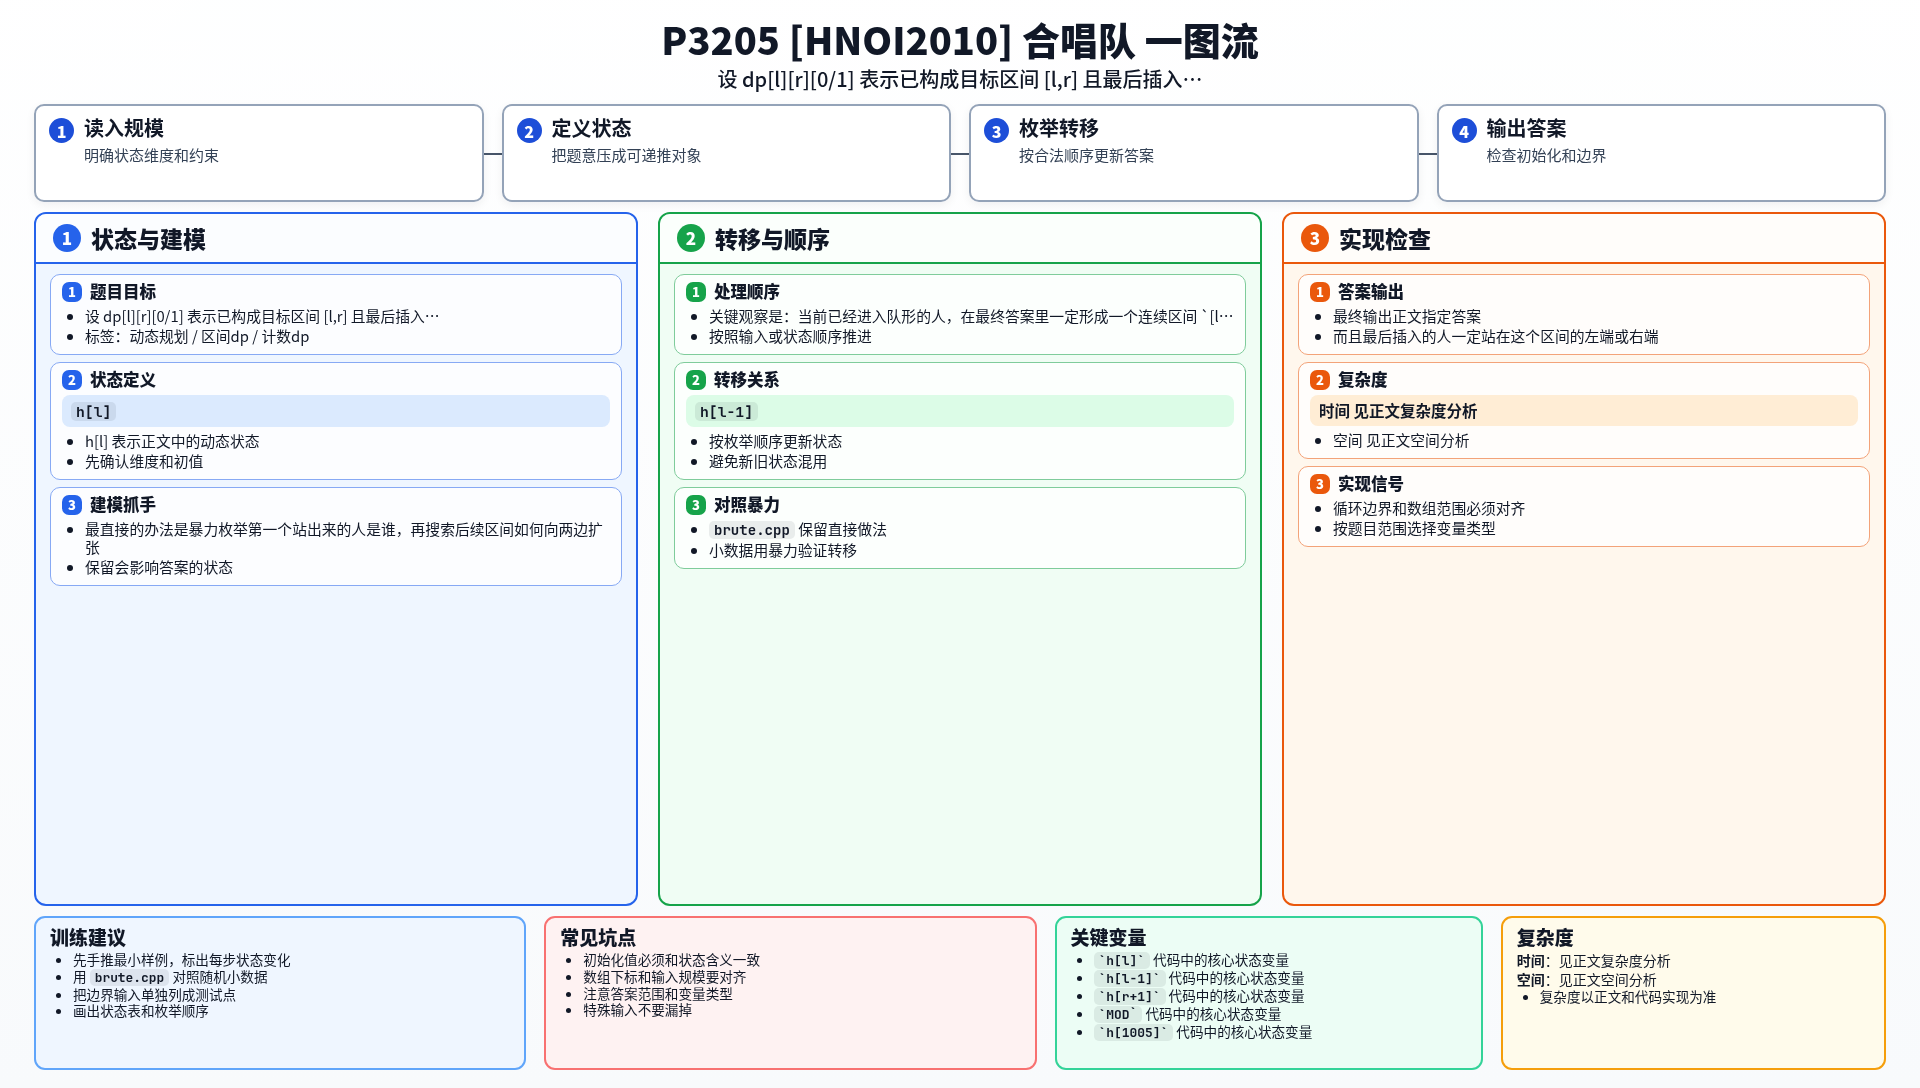
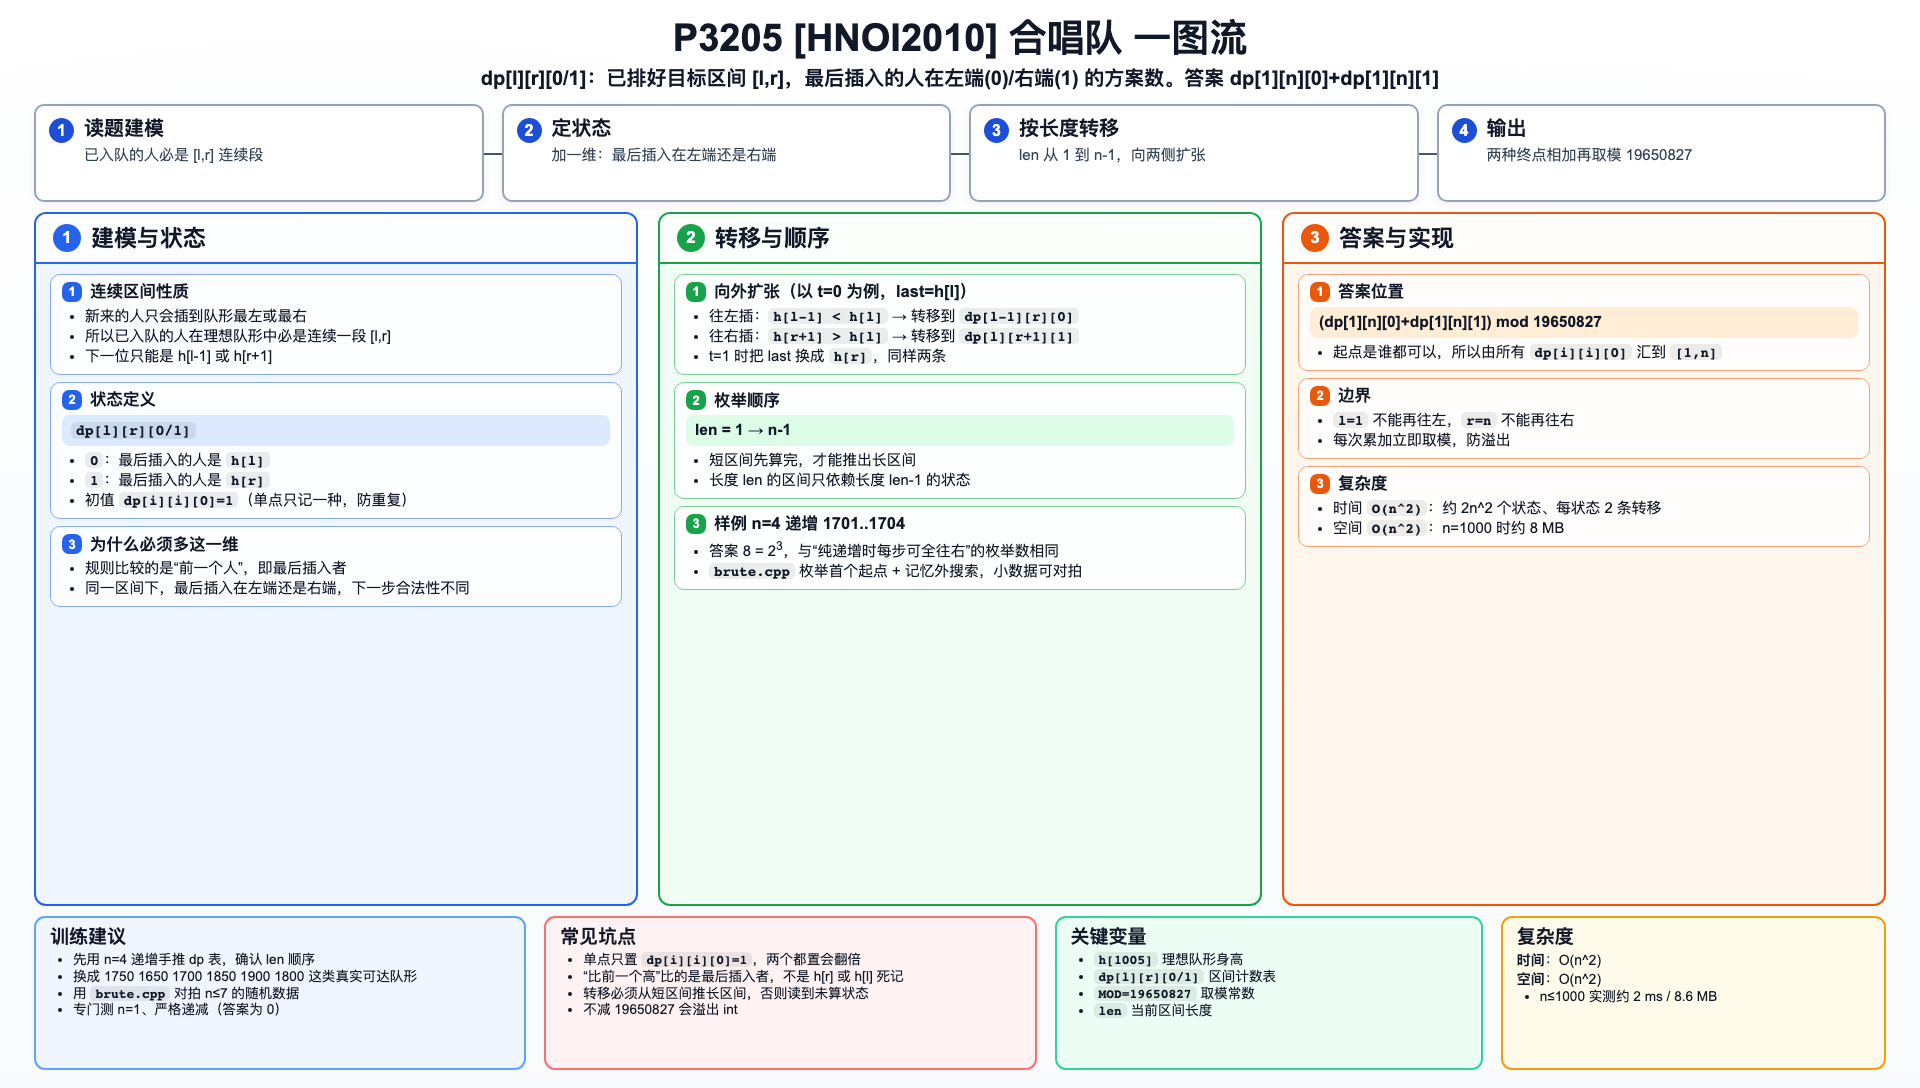
feat(luogu/P3205): 新增 f/g 双数组写法变体 main-zhylj.cpp 并完善题解
- 新增 main-zhylj.cpp：拉式 f/g 双数组写法（灵感来自洛谷题解 zhylj, uid 34238），
  与 main.cpp 全量对拍 301 组（300 随机 + n=1 边界）一致，judge 判定 AC 301/301
- index.md：正解下新增「写法变体：f/g 双数组」小节，写明单点初值只记一边的原因、
  两种写法的取舍与出处；正文为暴力到正解型布局，主解保留推式 main.cpp
- 同批交付修复：gen.py 无鉴别力生成器、brute.cpp 递归边界、difficulty 枚举、一图流重渲染
- 验证：check_problem / check_relations / check:content 通过，Markdown 渲染无未展开指令

diff --git a/problems/luogu/P3205/main-zhylj.cpp b/problems/luogu/P3205/main-zhylj.cpp
@@ -1,0 +1,52 @@
+/**
+ * Author by Rainboy blog: https://rainboylv.com github: https://github.com/rainboylvx
+ * rbook: -> https://rbook.roj.ac.cn  https://rbook2.roj.ac.cn
+ * rainboy的学习导航网站: https://idx.roj.ac.cn
+ * create_at: 2026-10-24 10:19
+ * update_at: 2026-10-24 10:19
+ */
+// main-zhylj.cpp：P3205 合唱队 的写法变体（f/g 双数组拉式）。
+// 与 main.cpp 同一算法（区间 DP + 计数），区别只在写法：
+//   1. 不用 dp[l][r][2] 三维表，改用 f/g 两个二维数组；
+//   2. 转移写成「拉式」：长区间 [l,r] 从短区间 [l+1,r]、[l,r-1] 拉取；
+//   3. 两个来源合并成一行，用 (h[x] < h[y]) 的真值当 0/1 系数。
+// 写法灵感来自洛谷题解 zhylj (uid 34238) 的 f/g 双数组风格，代码为独立重写。
+#include <bits/stdc++.h>
+using namespace std;
+
+const int MOD = 19650827;
+
+static int h[1005]; // h[i]：理想队形中第 i 个人的身高（下标从 1 开始）
+static int f[1005][1005]; // f[l][r]：已构成 [l,r]、最后插入的是左端 h[l] 的方案数
+static int g[1005][1005]; // g[l][r]：已构成 [l,r]、最后插入的是右端 h[r] 的方案数
+
+int main() {
+    ios::sync_with_stdio(false);
+    cin.tie(nullptr);
+
+    int n;
+    cin >> n;
+    for (int i = 1; i <= n; ++i) {
+        cin >> h[i];
+    }
+
+    // 单点区间只记一边：单点的「最后插入者」左右端是同一个人，
+    // 两边都置 1 会把方案数翻倍（n=1 的答案会变成 2）。
+    for (int i = 1; i <= n; ++i) {
+        f[i][i] = 1;
+    }
+
+    // 拉式转移：[l,r] 的最后插入者是 h[l] 时，上一步的区间是 [l+1,r]，
+    // 要比的人是它的最后插入者（落在 h[l+1] 或 h[r] 上）；右端对称。
+    // (h[x] < h[y]) 成立取 1、否则取 0，直接当系数，两个来源合并成一行。
+    for (int len = 2; len <= n; ++len) {
+        for (int l = 1; l + len - 1 <= n; ++l) {
+            int r = l + len - 1;
+            f[l][r] = (f[l + 1][r] * (h[l] < h[l + 1]) + g[l + 1][r] * (h[l] < h[r])) % MOD;
+            g[l][r] = (f[l][r - 1] * (h[l] < h[r]) + g[l][r - 1] * (h[r - 1] < h[r])) % MOD;
+        }
+    }
+
+    cout << (f[1][n] + g[1][n]) % MOD << '\n';
+    return 0;
+}

diff --git a/problems/luogu/P3205/gen.py b/problems/luogu/P3205/gen.py
@@ -1,6 +1,30 @@
 #!/usr/bin/env python3
+"""gen.py：为 luogu/P3205 生成对拍数据。
+
+按模式覆盖四类小数据，保证 main.cpp 与 brute.cpp 的比较落在二者共同适用范围：
+
+- random：随机身高序列，绝大多数不可达（期望输出 0）。
+- reachable：随机初始顺序按题面规则模拟得到的目标队形，答案一定非零。
+- inc：严格递增，答案应为 2^(n-1)。
+- dec：严格递减，答案应为 0（n = 1 时为 1）。
+
+环境变量 DUPAI_SEED 存在时作为随机种子，便于复现。
+"""
 import os
 import random
+
+
+def simulate(initial):
+    """按题面规则把初始顺序排成最终队形。"""
+    cur = []
+    for k, x in enumerate(initial):
+        if k == 0:
+            cur.append(x)
+        elif x > initial[k - 1]:
+            cur.append(x)
+        else:
+            cur.insert(0, x)
+    return cur
 
 
 def main() -> None:
@@ -10,8 +34,20 @@ def main() -> None:
     else:
         random.seed(int(seed_text))
 
-    n = random.randint(1, 8)
-    arr = random.sample(range(1000, 1020), n)
+    n = random.randint(1, 9)
+    pool = range(1000, 2000)
+
+    mode = random.choice(["random", "random", "reachable", "reachable", "inc", "dec"])
+
+    if mode == "inc":
+        arr = sorted(random.sample(pool, n))
+    elif mode == "dec":
+        arr = sorted(random.sample(pool, n), reverse=True)
+    elif mode == "reachable":
+        initial = random.sample(pool, n)
+        arr = simulate(initial)
+    else:
+        arr = random.sample(pool, n)
 
     print(n)
     print(*arr)

diff --git a/problems/luogu/P3205/brute.cpp b/problems/luogu/P3205/brute.cpp
@@ -1,11 +1,20 @@
+/**
+ * Author by Rainboy blog: https://rainboylv.com github: https://github.com/rainboylvx
+ * rbook: -> https://rbook.roj.ac.cn  https://rbook2.roj.ac.cn
+ * rainboy的学习导航网站: https://idx.roj.ac.cn
+ * create_at: 2026-10-23 23:13
+ * update_at: 2026-10-23 23:13
+ */
 #include <bits/stdc++.h>
 using namespace std;
 
 const int MOD = 19650827;
 
 static int n;
-static vector<int> h;
+static vector<int> h; // h[i]：理想队形中第 i 个人的身高（下标从 1 开始）
 
+// dfs：当前已构成目标区间 [l, r]，最后插入的人是 last_idx，返回扩满 [1, n] 的方案数。
+// 只适合小数据：同一个 (l, r, last_idx) 会被不同路径反复访问，指数级重复计算。
 int dfs(int l, int r, int last_idx) {
     if (l == 1 && r == n) {
         return 1;

diff --git a/problems/luogu/P3205/main.cpp b/problems/luogu/P3205/main.cpp
@@ -1,10 +1,17 @@
+/**
+ * Author by Rainboy blog: https://rainboylv.com github: https://github.com/rainboylvx
+ * rbook: -> https://rbook.roj.ac.cn  https://rbook2.roj.ac.cn
+ * rainboy的学习导航网站: https://idx.roj.ac.cn
+ * create_at: 2026-10-23 23:13
+ * update_at: 2026-10-23 23:13
+ */
 #include <bits/stdc++.h>
 using namespace std;
 
 const int MOD = 19650827;
 
-static int h[1005];
-static int dp[1005][1005][2];
+static int h[1005]; // h[i]：理想队形中第 i 个人的身高（下标从 1 开始）
+static int dp[1005][1005][2]; // dp[l][r][0/1]：已构成目标区间 [l,r]，最后插入者在左端(0)/右端(1) 的方案数
 
 int main() {
     ios::sync_with_stdio(false);

diff --git a/problems/luogu/P3205/index.md b/problems/luogu/P3205/index.md
@@ -2,13 +2,16 @@
 oj: "luogu"
 problem_id: "P3205"
 title: "[HNOI2010] 合唱队"
-description: "设 dp[l][r][0/1] 表示已构成目标区间 [l,r] 且最后插入的人在左端或右端时的方案数，按大小关系向两侧扩张。"
-difficulty: "普及+/提高"
+description: "把插入过程反过来看：已入队的人在理想队形中是连续区间 [l,r]，设 dp[l][r][0/1] 记录最后插入者在左端还是右端，按区间长度递增向两侧扩张计数。"
+difficulty: "普及+/提高-"
 date: 2026-06-19 19:00
-updated: 2026-10-07 12:15
+updated: 2026-10-24 10:23
 toc: true
 tags: ["动态规划", "区间dp", "计数dp"]
+favorite: false
+favorite_reason: ""
 categories: []
+showAtRbook: []
 pre:
   - oj: "luogu"
     problem_id: "P1775"
@@ -20,75 +23,114 @@ source: https://www.luogu.com.cn/problem/P3205
 
 [[TOC]]
 
-### 题意
+## 形式化题目
 
-给出最终理想队形的身高序列。
+给定长度为 $n$ 的数列 $h_1, h_2, \dots, h_n$，其中元素两两不同，代表理想队形从左到右的身高。
 
-每次按初始顺序依次取人：第一个人直接入队；之后每个人如果比前一个人高，就插到当前队形最右边，否则插到最左边。
+考虑 $h$ 的任意一个排列 $p_1, p_2, \dots, p_n$（代表初始站队顺序）。从空序列开始依次处理 $p_k$：
 
-要求统计有多少种初始顺序，最终能得到给定的理想队形。
+- $k = 1$ 时直接把 $p_1$ 放入序列；
+- $k \geqslant 2$ 时，若 $p_k > p_{k-1}$ 就放到当前序列最右端，否则放到最左端。
+
+求有多少个排列 $p$ 最终得到序列恰好是 $h_1, \dots, h_n$，答案对 $19650827$ 取模。数据范围 $n \leqslant 1000$，$1000 \leqslant h_i \leqslant 2000$。
+
+注意规则里“和前一个人比”比的是**上一位插入的人**，不是队形里相邻的某个人。
+
+## 暴力解法
 
 ### 思路
 
-最直接的办法是暴力枚举第一个站出来的人是谁，再搜索后续区间如何向两边扩张。
+题意已经把过程写得很清楚，最直接的做法就是照着走：先决定第一个站出来的人是谁，然后一步步决定后面每个人往哪边插。
 
-先看一个可以直接验证想法的朴素解：
+关键在于每一步只有两种可能。假设当前队形已经占了理想队形的某个连续段 $[l, r]$，那么下一位被插入的人只可能是段外的 $h_{l-1}$ 或 $h_{r+1}$：
+
+- 想插到左端，就必须满足 $h_{l-1} < \text{(最后插入者的身高)}$，因为只有更矮的人才会被放到最左边；
+- 想插到右端，就必须满足 $h_{r+1} > \text{(最后插入者的身高)}$。
+
+于是 `brute.cpp` 的 `dfs(l, r, last_idx)` 表示“已构成区间 $[l, r]$、最后插入的人是 `last_idx`”，逐层尝试这两种扩张，走到 $[1, n]$ 就记一种完整方案；外层再枚举第一个出发点 $i$，把 `dfs(i, i, i)` 累加起来。
+
+这个搜索覆盖了全部合法方案，因此小数据下的答案一定正确，正好用来对拍。
+
+### 代码
 
 @include-code(./brute.cpp, cpp)
 
-`brute.cpp` 会直接搜索：
+### 复杂度
 
-- 当前已经构成的目标区间 `[l, r]`
-- 上一个插入的人是谁
-- 下一步能不能从左边扩、能不能从右边扩
+外层枚举 $n$ 个起点，每次搜索最多走 $n$ 层、每层 2 个分支，最坏 $O(2^n)$ 条路径，每条路径 $O(n)$ 累计，总时间复杂度 $O(n \cdot 2^n)$；空间复杂度 $O(n)$（递归栈）。
 
-这个想法很直观，但不记忆化会反复遇到相同的区间状态。
+### 瓶颈
 
-关键观察是：当前已经进入队形的人，在最终答案里一定形成一个连续区间 `[l, r]`。而且最后插入的人一定站在这个区间的左端或右端。
+瓶颈是**同一个状态被反复算了很多遍**。不同路径经常收敛到同一个 $(l, r, last\_idx)$，而这三元组一旦确定，后面能产生多少种方案就是固定的。但上面的搜索每次遇到它都要重新展开一遍，于是指数爆炸：$n = 20$ 就已经算不动，而题目要求 $n \leqslant 1000$。
 
-于是设：
+把“算过的答案记下来”就得到记忆化搜索，进一步发现状态本来就是由区间长度一层层推上去的，写成从短区间到长区间的递推即可——这就是下面的正解。
 
-- `dp[l][r][0]`：已经构成 `[l, r]`，且最后插入的人在左端
-- `dp[l][r][1]`：已经构成 `[l, r]`，且最后插入的人在右端
+## 正解
 
-从 `dp[l][r][0]` 出发，当前“前一个人”就是 `h[l]`：
+### 关键观察
 
-- 如果左边还有人且 `h[l-1] < h[l]`，就能把 `h[l-1]` 插到左边
-- 如果右边还有人且 `h[r+1] > h[l]`，就能把 `h[r+1]` 插到右边
+倒过来看插入过程。每次新来的人只会被放到当前队形的最左端或最右端，所以**已经入队的那些人，在理想队形里一定占据连续的一段 $[l, r]$**。而且这不只是巧合：只要这一段确定了，能插进来的人就只能是 $h_{l-1}$ 与 $h_{r+1}$ 之一。
 
-`dp[l][r][1]` 同理。
+第二个观察是：规则里要比的“前一个人”就是**最后插入的那个人**，而最后插入的人一定站在区间两端之一。所以“谁最后进去”只有两种可能：左端 $h_l$ 或右端 $h_r$。
 
-这张表展示状态的含义：
-
-| 状态 | 表示什么 |
-| --- | --- |
-| `dp[3][3][0]` | 只选了第 3 个人作为起点 |
-| `dp[2][5][0]` | 已经构成目标区间 `[2, 5]`，最后插入的人是左端 `2` |
-| `dp[2][5][1]` | 已经构成目标区间 `[2, 5]`，最后插入的人是右端 `5` |
-
-读这张表时，关键是抓住两点：当前队形对应最终答案中的一段连续区间；而题目里比较大小时用到的“前一个人”，就是这段区间最后插入的那个端点。
-
-#### DP 公式
-
-设 $dp_{l,r,0}$ 表示已经构成区间 $[l,r]$，且最后插入的人在左端；$dp_{l,r,1}$ 表示最后插入的人在右端。若最后插入的人在左端，则当前比较值是 $h_l$：
+这两点合起来，状态就有了：
 
 $$
-dp_{l-1,r,0}\mathrel{+}=dp_{l,r,0}\quad (h_{l-1}<h_l)
+dp_{l,r,0} = \text{已构成 } [l,r] \text{、且最后插入的是左端 } h_l \text{ 的方案数},\qquad
+dp_{l,r,1} = \text{最后插入的是右端 } h_r \text{ 的方案数}.
 $$
 
+其中 $0$ 与 $1$ 两个值不重复计数：它们是“最后一步插在哪边”的两种不同情况。
+
+### 思路
+
+初始化：任意单点区间都能作为起点，令 $dp_{i,i,0} = 1$，$dp_{i,i,1} = 0$。
+
+> 单点只记一个方向，是因为 $n = 1$ 时长度为 $1$ 的状态本身就对应一种初始队形；两个方向都置 $1$ 会把答案翻倍。
+
+转移按区间长度从小到大做。长度 $1$ 的区间已经确定，长度 $\mathit{len}$ 的区间只由长度 $\mathit{len}-1$ 的区间推出来，所以外层枚举 $\mathit{len}$ 从 $2$ 到 $n$。
+
+以新状态 $dp_{l,r,0}$（最后插入的是左端 $h_l$）为例，它只能由“少一个左端点”的区间 $[l+1, r]$ 扩张而来，此时扩张的人正是 $h_l$，要比的是 $[l+1,r]$ 的最后插入者：
+
+- 若 $[l+1,r]$ 最后插入的是左端 $h_{l+1}$：$h_l$ 要插到左边，需要 $h_l < h_{l+1}$；
+- 若 $[l+1,r]$ 最后插入的是右端 $h_r$：需要 $h_l < h_r$。
+
 $$
-dp_{l,r+1,1}\mathrel{+}=dp_{l,r,0}\quad (h_{r+1}>h_l)
+dp_{l,r,0} = [\,h_l < h_{l+1}\,]\, dp_{l+1,r,0} + [\,h_l < h_r\,]\, dp_{l+1,r,1}
 $$
 
-若最后插入的人在右端，则把比较值换成 $h_r$ 做同样转移。最终答案为：
+对称地，$dp_{l,r,1}$ 由 $[l, r-1]$ 扩张而来，扩张的人是 $h_r$，需要比 $h_l$ 或 $h_{r-1}$ 更高：
 
 $$
-dp_{1,n,0}+dp_{1,n,1}
+dp_{l,r,1} = [\,h_r > h_l\,]\, dp_{l,r-1,0} + [\,h_r > h_{r-1}\,]\, dp_{l,r-1,1}
 $$
 
+（$[\cdot]$ 表示条件成立取 $1$、否则取 $0$。）`main.cpp` 写成从 $[l,r]$ 往两边“推”的形式，与上面从两侧“拉”的形式完全等价；对应的“拉”式实现见下文的「写法变体」小节。
 
-公式解释：当前已形成的人一定对应目标队形中的连续区间。最后插入者决定下一次比较的身高，所以状态要额外记录最后插入在左端还是右端。
+答案：起点可以是任意一个人，所以把所有情形都汇到 $[1, n]$ 再求和：
 
+$$
+ans = \left(dp_{1,n,0} + dp_{1,n,1}\right) \bmod 19650827
+$$
+
+因为 $n=1$ 时只有 $dp_{1,1,0}=1$，这个式子也直接给出正确答案 $1$。
+
+下面用样例追踪一遍，只看关键几步（数值均由程序实测）：
+
+| 区间 | $dp_{l,r,0}$ | $dp_{l,r,1}$ | 说明 |
+| --- | --- | --- | --- |
+| $[1,1]$ | 1 | 0 | 初值，只记一个方向 |
+| $[2,2]$ | 1 | 0 | 初值 |
+| $[3,3]$ | 1 | 0 | 初值 |
+| $[4,4]$ | 1 | 0 | 初值 |
+| $[1,2]$ | 1 | 1 | $h_1<h_2$：可由 $[2,2]$ 向左扩；$h_2>h_1$：可由 $[1,1]$ 向右扩 |
+| $[2,3]$ | 1 | 1 | 同理 |
+| $[3,4]$ | 1 | 1 | 同理 |
+| $[1,3]$ | 2 | 2 | $dp_{1,3,0}=dp_{2,3,0}+dp_{2,3,1}=2$，$dp_{1,3,1}=dp_{1,2,0}+dp_{1,2,1}=2$ |
+| $[2,4]$ | 2 | 2 | 同理 |
+| $[1,4]$ | 4 | 4 | $dp_{1,4,0}=dp_{2,4,0}+dp_{2,4,1}=4$，$dp_{1,4,1}=dp_{1,3,0}+dp_{1,3,1}=4$ |
+
+读表要点：每一行只依赖上一行的结果，这正是按长度递推的含义；单点行只有一列非零，是防重复计数的关键；最后一行两列相加 $4+4=8$，与样例输出一致。
 
 ### 代码
 
@@ -96,14 +138,43 @@ $$
 
 ### 复杂度
 
-状态数是 $O(n^2)$，每个状态只有常数个转移，所以时间复杂度是 $O(n^2)$，空间复杂度也是 $O(n^2)$。
+状态数是所有区间 $(l, r)$ 乘 2 种“最后插入端点”，共 $O(n^2)$ 个；每个状态只做常数次加法与取模。
 
-### 总结
+- 时间复杂度 $O(n^2)$；
+- 空间复杂度 $O(n^2)$，数组 `dp[1005][1005][2]` 在 $n=1000$ 时约 $8\ \text{MB}$。
 
-这题的关键不是直接还原整个初始序列，而是把过程抽成“连续区间向两边扩张”的计数 DP。只要状态定义对了，转移就很直接。
+### 写法变体：f/g 双数组
 
-### 一图流解析
+同一算法还有一种更紧凑的“拉”式实现：把 $dp_{l,r,0/1}$ 换成两个二维数组——$f_{l,r}$ 记最后插入的是左端，$g_{l,r}$ 记最后插入的是右端。长区间直接从短区间拉取，两个来源合并成一行，用 $(h_x < h_y)$ 的真值当 $0/1$ 系数：
 
-这张图把本题的建模、关键转移、实现检查和训练方法压缩到一页，适合读完正文后复盘。
+$$
+f_{l,r} = (\,h_l < h_{l+1}\,)\, f_{l+1,r} + (\,h_l < h_r\,)\, g_{l+1,r},\qquad
+g_{l,r} = (\,h_l < h_r\,)\, f_{l,r-1} + (\,h_{r-1} < h_r\,)\, g_{l,r-1}.
+$$
 
-![一图流解析](./one-page-explainer.png)
+单点初值仍只记一边：$f_{i,i} = 1$、$g_{i,i} = 0$。长度 $2$ 的区间从单点拉取时，两个来源指向的是同一个人，只计一次，正好躲开“单点双计”的坑——这和正文“单点只置 $dp_{i,i,0} = 1$”是同一件事的另一种写法。
+
+写法灵感来自洛谷题解 [《合唱队》（zhylj，uid 34238）](https://www.luogu.com.cn/article/rg57jlcu) 的 f/g 双数组风格，下面的代码为独立重写，与 `main.cpp` 全量对拍 301 组（300 组随机数据 + $n=1$ 边界）输出完全一致。两种写法复杂度同为 $O(n^2)$，选择纯看口味：`main.cpp` 的推式与正文推导方向一致，这里给出的拉式转移行数更少。
+
+@include-code(./main-zhylj.cpp, cpp)
+
+## 总结
+
+这道题的难点不在转移，而在**把“依次插入”反过来读成“连续区间向外扩张”**。一旦确认了“已入队的人占据理想队形的一段连续区间”“要比较的人就是最后插入的端点”，状态 $(l, r, \text{左/右})$ 就自然浮现，转移也就只是检查两个大小关系。
+
+实现上有三个容易翻车的点：
+
+- 单点只令 $dp_{i,i,0}=1$，两个方向都置 $1$ 会让 $n=1$ 的答案变成 2；
+- 必须先枚举长度再枚举左端点，保证长区间用到的短区间已经算好；
+- 累加时立即取模，否则中间结果会超出 `int`。
+
+最后附两组手算结论，可以用来检查自己的实现：
+
+- 严格递增的 $h$ 答案为 $2^{n-1}$（样例 $n=4$ 得 $8$）。
+- 严格递减的 $h$ 在 $n \geqslant 2$ 时答案为 $0$。理由：设第一个站出来的是 $h_i$。此后队形右端永远是 $h_i$，因为 $i$ 右侧的元素全都比 $h_i$ 小，按规则只能插到左端；要得到严格递减的 $h$，右端必须恰好是 $h_n$，于是 $i = n$。但 $h_n$ 是最小值，第二轮无论遇到谁都只能插到左端，那样 $h_n$ 会离开右端——矛盾。
+
+## 图示解析
+
+这张图把本题的建模、转移、实现检查和常见坑点压缩到一页，适合读完正文后复盘。
+
+![P3205 一图流解析](./one-page-explainer.png)
